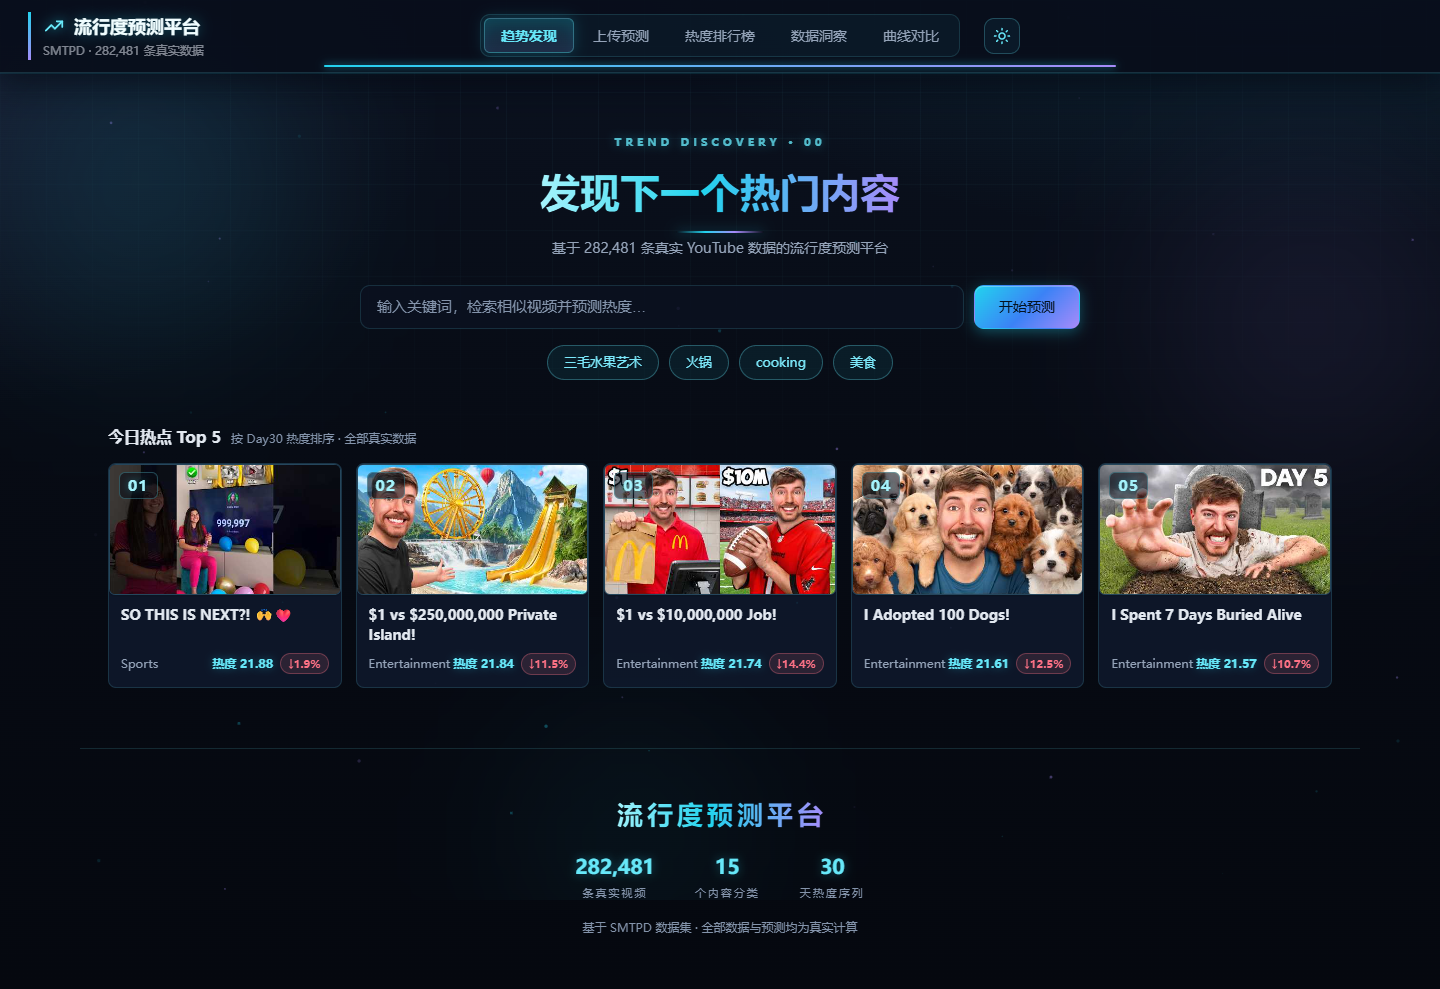
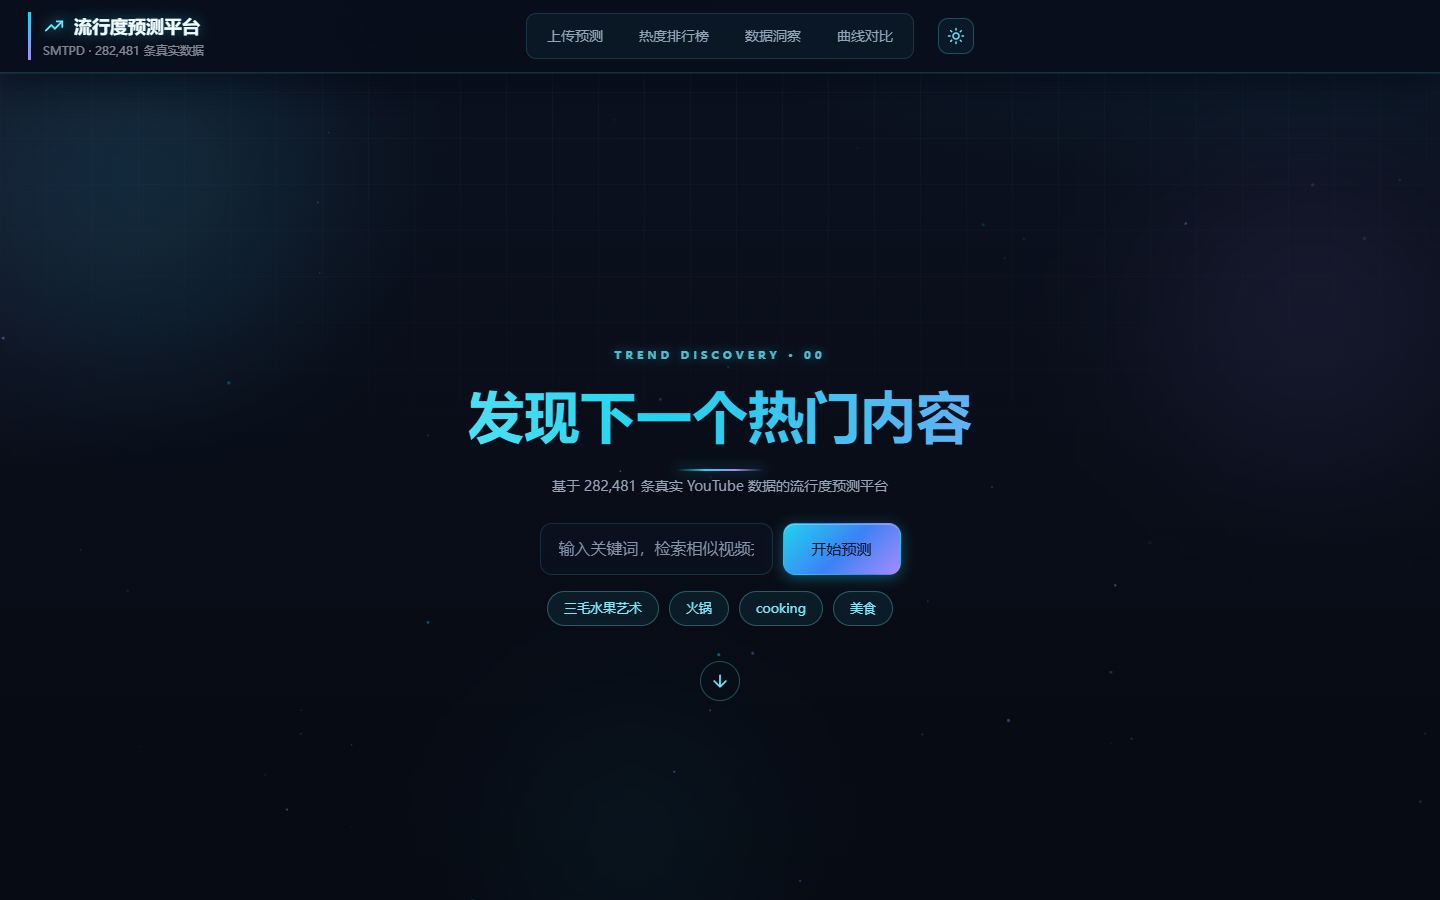
首页重构-第3步：文档与截图更新（全屏首页/hash路由说明），全站回归通过

diff --git a/docs/DEMO.md b/docs/DEMO.md
@@ -2,7 +2,7 @@
 
 ## 演示流程（约 5 分钟）
 
-1. **开场（30 秒）**：默认打开「趋势发现」首页——大标题、搜索框、今日热点 Top 5（真实数据 + 涨跌标识）；一句话介绍：基于 282,481 条真实 YouTube 数据（SMTPD）的流行度预测与可视化平台。
+1. **开场（30 秒）**：默认打开「趋势发现」全屏首页——Hero 大标题 + 超大搜索框 + 向下引导，第二屏「今日正在爆发的选题」Top 5（真实数据 + 涨跌标识）；一句话介绍：基于 282,481 条真实 YouTube 数据（SMTPD）的流行度预测与可视化平台，可提一句「每个页面都有独立 URL，支持刷新和分享」。
 2. **搜索联动（40 秒）**：输入「三毛水果艺术」回车（或点示例词），自动跳转到上传预测并出结果；展示参考案例、30 天预测曲线、KPI 行（峰值天 / 预测 Day30 / 案例数）与全站平均对照虚线；说明「基线预测 = 参考案例真实曲线平均，模型接入后替换」。
 3. **热度排行榜（1 分钟）**：展示 KPI 指标行、排名序号与涨跌角标；搜索「火锅」（约 167 条）→ 翻页 → 点开一个视频看真实 30 天曲线、峰值天、衰减率。
 4. **数据洞察（1 分钟）**：指出 KPI 行 r = 0.9296，说明「早期热度决定最终热度」；衰减曲线说明热度随时间衰减的整体规律；结论标题直击要点。

diff --git a/README.md b/README.md
@@ -4,7 +4,7 @@
 
 ## 功能特性
 
-- **趋势发现首页**：默认落地页，大搜索框 + 示例关键词 + 今日热点 Top 5（排名 / 封面 / 热度 / 涨跌），回车一键联动到预测
+- **趋势发现首页**：全屏沉浸式落地页（Hero 大标题 + 超大搜索框 + 示例关键词 + 向下引导），第二屏「今日正在爆发的选题」+ 完整榜单入口；独立 URL（`#/`、`#/predict`…）支持刷新保持、浏览器前进后退与分享
 - **上传预测**：输入文案，检索最相似的历史视频（BM25 + FTS5 trigram 中文全文检索），以参考案例的真实曲线平均生成未来 30 天热度预测曲线；结果区含 KPI（峰值天 / 预测 Day30 / 参考案例数）与全站平均对照虚线
 - **热度排行榜**：浏览 282,481 条真实视频，支持榜单范围（全站 / 15 个分类）× 榜单口径（Day30 总榜 / Day1 新热榜 / 长红榜）切换，标题/标签/描述检索、分页与详情弹窗；视频卡带排名序号、涨跌角标与 KPI 指标行
 - **数据洞察**：分类平均热度对比、Day1 与 Day30 热度相关性散点（r = 0.9296，早期热度决定最终热度）、平均热度衰减曲线（整体 / 分类切换），顶部 KPI 行 + 结论先行标题

diff --git a/docs/成果清单.md b/docs/成果清单.md
@@ -38,7 +38,7 @@
 
 ## 页面（5 个）
 
-1. 趋势发现：默认落地页，大搜索 + 示例词 + 今日热点 Top 5，回车联动预测
+1. 趋势发现：全屏首页（Hero 大标题 / 超大搜索 / 示例词 / 向下引导），第二屏选题流 + 榜单入口；hash 路由独立 URL
 2. 上传预测：参考案例 + 30 天预测曲线 + KPI 行 + 全站平均对照线（明确标注基线预测）
 3. 热度排行榜：KPI 指标行 / 排名序号 / 涨跌角标 / 筛选搜索分页 / 详情弹窗
 4. 数据洞察：KPI 行 + 结论标题（分类热度对比、r = 0.9296、平均衰减曲线）
@@ -51,6 +51,7 @@
 - 细节：图表内陷面板、封面相框感、数字等宽排版、统计单位后缀、顶栏滚动收缩、页脚数据行
 - 性能：滚动期间自动暂停重特效；修复 fixed 背景与 backdrop-filter 造成的滚动卡顿
 - 趋势产品化（2026-08）：趋势发现首页、排行榜 KPI/排名序号/涨跌角标、预测 KPI + 全站平均对照线、洞察 KPI + 结论标题、对比页迷你趋势线
+- 首页重构（2026-08-13）：全屏 Hero + hash 路由独立 URL（刷新保持 / 前进后退 / 分享）
 
 ## 与申报书对应
 

diff --git a/docs/项目重构报告.md b/docs/项目重构报告.md
@@ -148,3 +148,9 @@ mvn -s mvn-settings.xml spring-boot:run
 6. **曲线对比**：指标表内嵌 30 点迷你趋势线；浅色模式粒子数量减半；详情弹窗封面大图化。
 
 每步均通过 Playwright 双主题截图与数据核对验证后提交。
+
+## 十三、首页架构重构（2026-08-13）
+
+1. **Hash 路由**：`#/`、`#/predict`、`#/ranking`、`#/insights`、`#/compare`，导航改为链接，支持刷新保持、浏览器前进后退与分享；
+2. **首页全屏化**：Hero 占满首屏（56px 渐变大标题、820px 超大搜索框、示例词、向下浮动箭头），第二屏「今日正在爆发的选题」（真实说明行 + 完整榜单入口）；
+3. 功能页收进顶部主导航（4 项），Logo 点击回首页。
